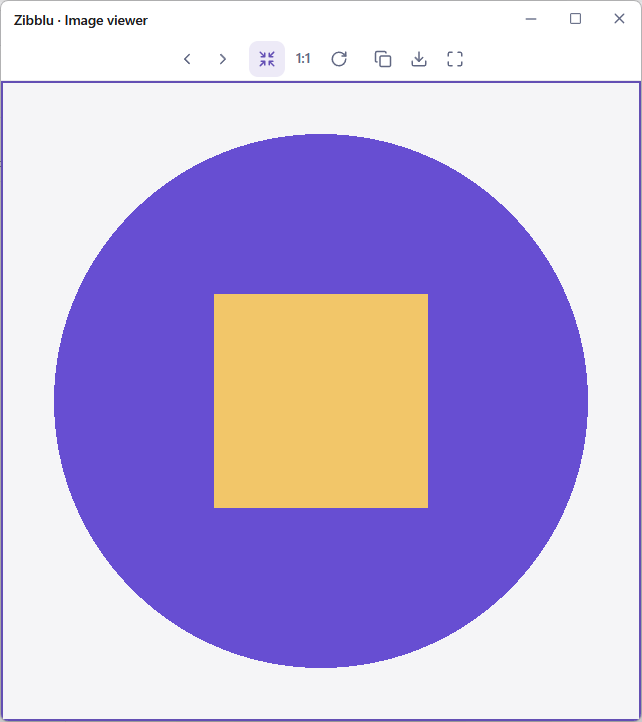
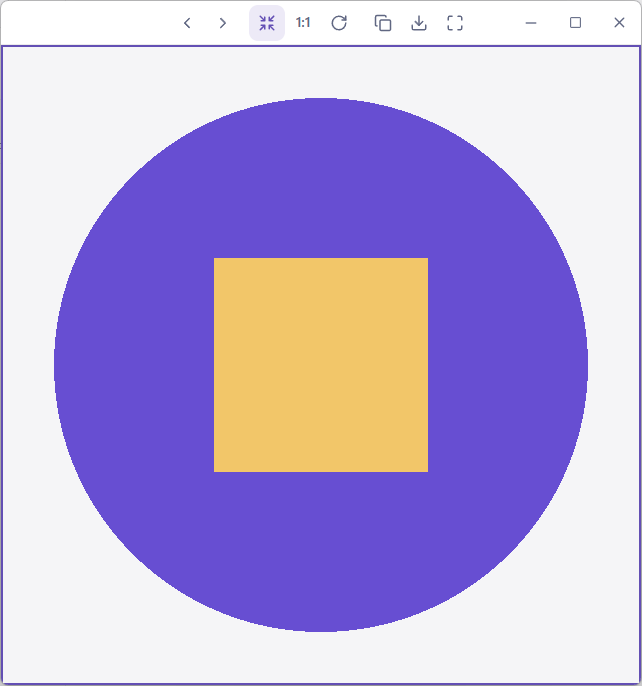
docs(ui): 更新单行工具栏和保存恢复实测

diff --git a/docs/windows-feedback/media-files-round3/README.md b/docs/windows-feedback/media-files-round3/README.md
@@ -28,10 +28,12 @@
 | 并行、上传暂停与重启 | 两个真实上传并行。暂停后重启恢复同一任务，从第 2,097,152 字节继续上传。完成前后顺序和附件 ID 一致。 |
[1 lines of base64/hex data omitted]
 | 下载并行与排队 | 两个保存任务并行，第三个进入队列，三个保存件的 SHA-256 均与原件一致。 |
-| 已保存文件 | 通过实际 Windows 默认关联应用记事本打开保存的文本。移走保存件后显示具体错误，按钮回到可重新保存状态。 |
+| 已保存文件 | 通过实际 Windows 默认关联应用记事本打开保存的文本。改名导致原路径失效、等长修改导致 SHA-256 不匹配，两种情况均在 Windows 实测只切换为「保存」。重新保存的文件与原件摘要一致。 |
 | 文件到期 | 已同步附件在有效期内显示保存。到期后同一文件行显示过期，保存操作消失。授权账号请求文件分块返回 HTTP 410。 |
 
 [旧版文件中心](../global-ui-interactions/round2/narrow-files.png) · [文件中心](round2/file-library.png) · [窄窗](round2/file-library-narrow.png) · [类型 Selector](round2/file-selector-open.png) · [反向排序](round2/file-sort-reversed.png) · [搜索无结果](round2/file-no-results.png) · [正在下载](round2/file-download-running.png) · [下载失败](round2/file-download-failed.png) · [下载排队](round2/file-download-queue.png) · [上传暂停](round2/file-upload-paused.png) · [文件到期](round2/file-expired.png)
+
+[原路径失效](round2/file-resave-missing.png) · [校验不一致](round2/file-resave-hash.png)
 
 ## 两轮独立 Always UI 检查
 
@@ -44,7 +46,9 @@
 | 1 | 高置信度设计问题 | 文件行 | Word 和普通文本使用相同的蓝色文件图标。 | Word 保留蓝色文档，普通文本回退至中性文件标识。第二轮在宽、窄窗重新检查。 |
 | 2 | 缺陷 | 查看器保存 | 保存对话框返回时，画布外获得焦点，Escape 关闭失效。 | 改用独立窗口级键盘监听，重新构建并启动后复测通过。 |
 
-Owner 补充顶栏要求后，查看器改用与主窗共享的 36 px 顶栏和原有窗口按钮。初始尺寸一并计入 44 px 媒体工具栏。最终构建用两个新资料目录启动，复测系统拖动、最小化、最大化、恢复、关闭、窄窗按钮、复制和保存。拖动实际使查看器独立移动 45 × 54 px。
+最终工具栏为 44 px 单行。图片按钮居中，窗口按钮贴右，标题区域用于拖动。实测 584 个逻辑像素的最窄窗口仍完整显示 11 个按钮，图片组中心与窗口中心重合。最终构建用两个新资料目录启动，复测拖动、最小化、最大化、恢复、关闭、复制和保存。拖动实际使查看器独立移动 45 × 54 px。
+
+[最窄窗口的单行工具栏](round2/viewer-minimum-width.png)
 
 [第一轮查看器工具栏](round1/image-toolbar.png) · [第一轮暂停任务](round1/file-upload-paused.png) · [第一轮 Selector](round1/file-selector-open.png)
 
